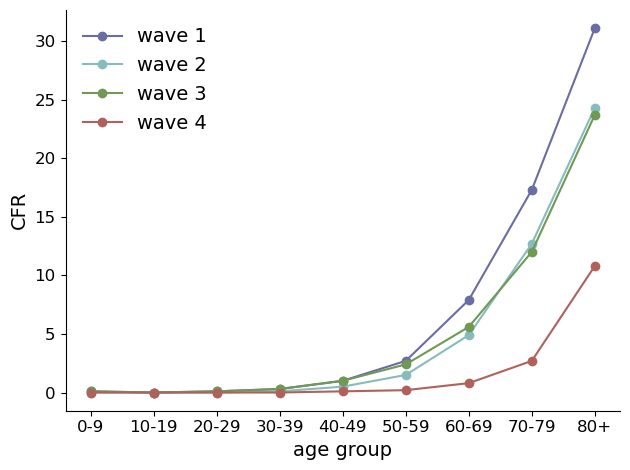
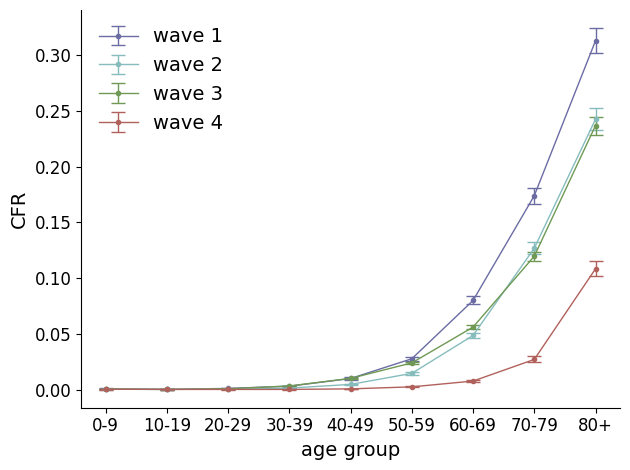
minor corrections to individual_plots.py and results_severe_outcomes.py to make sure that everything is runing fine.

diff --git a/plots/individual_plots.py b/plots/individual_plots.py
@@ -182,19 +182,19 @@ fig.savefig(FIG_PATH + 'distributions.png')
 #################################### ####################################
 import results_severe_outcomes as results_severe_outcomes
 
-fig, ax = plt.subplots(1, 3, figsize=(12, 4))
-results_severe_outcomes.plot_percentage(ax)
-ax[0].set_ylabel('Hospitalization percentage by age')
-ax[1].set_ylabel('ICU percentage by age')
-ax[2].set_ylabel('Death percentage by age')
-ax[0].set_title('a.')
-ax[1].set_title('b.')
-ax[2].set_title('c.')
+fig, ax = plt.subplots(1, 3, figsize=(15, 5))
+results_severe_outcomes.plot_percentage_err(ax)
+ax[0].set_ylabel('Hospitalization percentage by age-group')
+ax[1].set_ylabel('ICU percentage by age-group')
+ax[2].set_ylabel('Deaths percentage by age-group')
 for axi in ax:
     axi.tick_params(axis='x', labelrotation=90)
     axi.set_xlabel('Age group')
+ax[0].set_title('a.')
+ax[1].set_title('b.')
+ax[2].set_title('c.')
 handles, labels = ax[2].get_legend_handles_labels()
-ax[2].legend(handles, labels, loc='upper left')
+fig.legend(handles, labels, bbox_to_anchor = (0.79, -0.02), ncol = 6)
 fig.savefig(FIG_PATH+'hosp_icu_death_percentages.png')
 
 fig, ax = plt.subplots(1, 3, figsize=(12, 4))
@@ -222,7 +222,7 @@ fig.savefig(FIG_PATH+'hosp_icu_death_counts_hist.png')
 fig, ax = plt.subplots()
 var = 'CFR'
 var_name = 'CFR'
-results_severe_outcomes.plot_rates(ax, var, var_name)
+results_severe_outcomes.plot_ratios(ax, var, var_name)
 handles, labels = ax.get_legend_handles_labels()
 ax.legend(handles, labels, loc='upper left',numpoints=1)
 fig.savefig(FIG_PATH + f'{var}.png')
@@ -231,16 +231,16 @@ fig.savefig(FIG_PATH + f'{var}.png')
 fig, ax = plt.subplots()
 var = 'HCR'
 var_name = 'HCR'
-results_severe_outcomes.plot_rates(ax, var, var_name)
+results_severe_outcomes.plot_ratios(ax, var, var_name)
 handles, labels = ax.get_legend_handles_labels()
 ax.legend(handles, labels, loc='upper left',numpoints=1)
 fig.savefig(FIG_PATH + f'{var}.png')
 
 # HCR - I
 fig, ax = plt.subplots()
-var = 'HCR_I'
-var_name = 'HCR - ICU'
-results_severe_outcomes.plot_rates(ax, var, var_name)
+var = 'ICU-CR'
+var_name = 'ICU-CR'
+results_severe_outcomes.plot_ratios(ax, var, var_name)
 handles, labels = ax.get_legend_handles_labels()
 ax.legend(handles, labels, loc='upper left',numpoints=1)
 fig.savefig(FIG_PATH + f'{var}.png')
@@ -249,16 +249,16 @@ fig.savefig(FIG_PATH + f'{var}.png')
 fig, ax = plt.subplots()
 var = 'HFR'
 var_name = 'HFR'
-results_severe_outcomes.plot_rates(ax, var, var_name)
+results_severe_outcomes.plot_ratios(ax, var, var_name)
 handles, labels = ax.get_legend_handles_labels()
 ax.legend(handles, labels, loc='upper left',numpoints=1)
 fig.savefig(FIG_PATH + f'{var}.png')
 
 # HFR - I
 fig, ax = plt.subplots()
-var = 'HFR_I'
-var_name = 'HFR - ICU'
-results_severe_outcomes.plot_rates(ax, var, var_name)
+var = 'ICU-FR'
+var_name = 'ICU-FR'
+results_severe_outcomes.plot_ratios(ax, var, var_name)
 handles, labels = ax.get_legend_handles_labels()
 ax.legend(handles, labels, loc='upper left',numpoints=1)
 fig.savefig(FIG_PATH + f'{var}.png')

diff --git a/plots/results_severe_outcomes.py b/plots/results_severe_outcomes.py
@@ -43,24 +43,23 @@ def plot_xyvar(df, ax, n_strat, varx='age_group', vary='percentage'):
 # Wave cases percentage distribution by age group
 def plot_percentage(ax):
     vary = 'percentage'
-    strat_list = df_hosp_perc[strat].unique()
+    strat_list = df_percentages[strat].unique()
     for n_strat in strat_list:
-        plot_xyvar(df_hosp_perc, ax=ax[0], n_strat=n_strat, vary=vary)
-        plot_xyvar(df_icu_perc, ax=ax[1], n_strat=n_strat, vary=vary)
-        plot_xyvar(df_death_perc, ax=ax[2], n_strat=n_strat, vary=vary)
+        plot_xyvar(df_percentages[[strat, 'age_group', 'HOSP-%']], ax=ax[0], n_strat=n_strat, vary='HOSP-%')
+        plot_xyvar(df_percentages[[strat, 'age_group', 'ICU-%']], ax=ax[1], n_strat=n_strat, vary='ICU-%')        
+        plot_xyvar(df_percentages[[strat, 'age_group', 'DEATH-%']], ax=ax[2], n_strat=n_strat, vary='DEATH-%')
 
 # Wave counts by age group
 def plot_counts(ax):
-    strat_list = df_hosp_perc[strat].unique()
-    vary = 'counts'
+    strat_list = df_ratios[strat].unique()
     for axi in ax:
         axi.tick_params(axis='x', labelrotation=90)
-        axi.set_ylabel(vary)
+        axi.set_ylabel('cases')
         axi.set_xlabel('age group')
     for wave in strat_list:
-        plot_xyvar(df_hosp_perc, ax=ax[0], n_strat=wave, vary=vary)
-        plot_xyvar(df_icu_perc, ax=ax[1], n_strat=wave, vary=vary)
-        plot_xyvar(df_death_perc, ax=ax[2], n_strat=wave, vary=vary)
+        plot_xyvar(df_ratios[[strat, 'age_group','hosp']], ax=ax[0], n_strat=wave, vary='hosp')
+        plot_xyvar(df_ratios[[strat, 'age_group', 'icu']], ax=ax[1], n_strat=wave, vary='icu')
+        plot_xyvar(df_ratios[[strat, 'age_group', 'deaths']], ax=ax[2], n_strat=wave, vary='deaths')
 
 # Stacked histogram of cases by wave and age group
 def plot_stacked_histogram(df, ax, strat=strat, group_var='age_group', vary='counts', pallete='VanGogh1'): 
@@ -79,9 +78,9 @@ def plot_stacked_histogram(df, ax, strat=strat, group_var='age_group', vary='cou
 
 def plot_counts_histograms(ax, strat=strat, group_var='age_group', vary='counts'):
 
-    plot_stacked_histogram(df = df_hosp_perc, ax=ax[0], strat=strat, group_var=group_var, vary=vary)
-    plot_stacked_histogram(df = df_icu_perc, ax=ax[1], strat=strat, group_var=group_var, vary=vary)
-    plot_stacked_histogram(df = df_death_perc, ax=ax[2], strat=strat, group_var=group_var, vary=vary)
+    plot_stacked_histogram(df = df_ratios[[strat, 'age_group','hosp']], ax=ax[0], strat=strat, group_var=group_var, vary='hosp')
+    plot_stacked_histogram(df = df_ratios[[strat, 'age_group','icu']], ax=ax[1], strat=strat, group_var=group_var, vary='icu')
+    plot_stacked_histogram(df = df_ratios[[strat, 'age_group','deaths']], ax=ax[2], strat=strat, group_var=group_var, vary='deaths')
 
 
 # Proportion histogram with binomial confidence interval

diff --git a/plots/figure_4.py b/plots/figure_4.py
@@ -25,8 +25,8 @@ import results_severe_outcomes as results_severe_outcomes
 fig, ax = plt.subplots(1,3, figsize=(12,5))
 plt.rcParams["savefig.pad_inches"] = 0.4
 
-# results_severe_outcomes.plot_percentage(ax)
-results_severe_outcomes.plot_percentage_err(ax)
+results_severe_outcomes.plot_percentage(ax)
+# results_severe_outcomes.plot_percentage_err(ax)
 
 ax[0].set_ylabel('Hospitalization percentage by age-group')
 ax[1].set_ylabel('ICU percentage by age-group')
@@ -40,5 +40,5 @@ ax[2].set_title('c.')
 handles, labels = ax[2].get_legend_handles_labels()
 fig.legend(handles, labels, bbox_to_anchor = (0.79, -0.02), ncol = 6)
 
-# fig.savefig(FIG_PATH+'figure_5.png')
-fig.savefig(FIG_PATH+'figure_4_err.png')
+fig.savefig(FIG_PATH+'figure_4.png')
+# fig.savefig(FIG_PATH+'figure_4_err.png')
